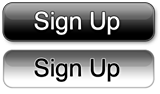
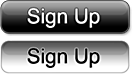
resized signup button

diff --git a/public/stylesheets/main.css b/public/stylesheets/main.css
@@ -93,7 +93,7 @@ form#new_user input#signup_submit, form#user_new input#signup_submit, form#new_a
   border: none;
   background: url("/images/signup.png") no-repeat scroll 0 0 transparent;
   display: block;
-  height: 47px;
+  height: 37px;
   line-height: 33px;
   margin: 15px auto;
   text-align: center;
@@ -102,7 +102,7 @@ form#new_user input#signup_submit, form#user_new input#signup_submit, form#new_a
   text-transform: capitalize;
   width: 160px; }
 form#new_user input#signup_submit:hover, form#user_new input#signup_submit:hover, form#new_auction input#signup_submit:hover, form#user_edit input#signup_submit:hover {
-  background: url("/images/signup.png") no-repeat scroll 0 -47px transparent; }
+  background: url("/images/signup.png") no-repeat scroll 0 -40px transparent; }
 
 .green {
   color: green; }

diff --git a/public/stylesheets/sass/main.sass b/public/stylesheets/sass/main.sass
@@ -96,7 +96,7 @@ form#new_user, form#user_new, form#new_auction, form#user_edit
     border: none
     background: url("/images/signup.png") no-repeat scroll 0 0 transparent
     display: block
-    height: 47px
+    height: 37px
     line-height: 33px
     margin: 15px auto
     text-align: center
@@ -105,7 +105,7 @@ form#new_user, form#user_new, form#new_auction, form#user_edit
     text-transform: capitalize
     width: 160px
   input#signup_submit:hover
-    background: url("/images/signup.png") no-repeat scroll 0 -47px transparent
+    background: url("/images/signup.png") no-repeat scroll 0 -40px transparent
 
 .green
   color: green
